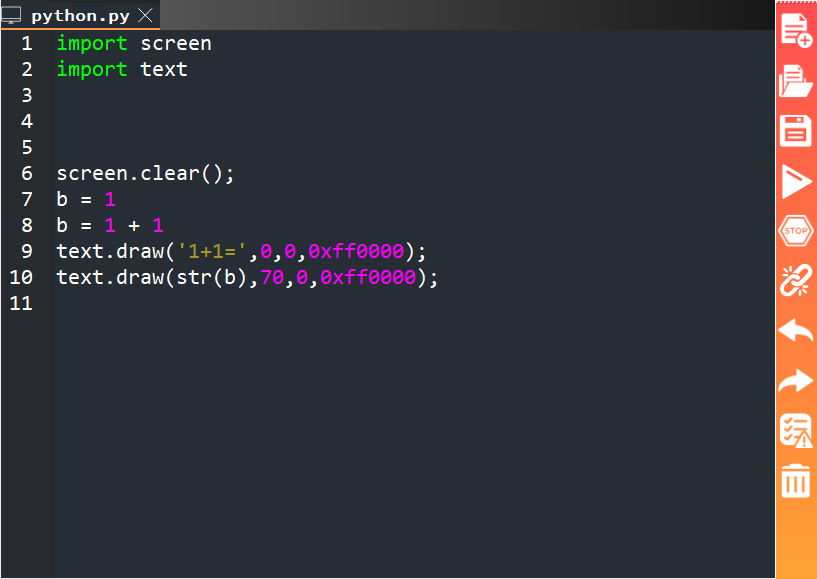
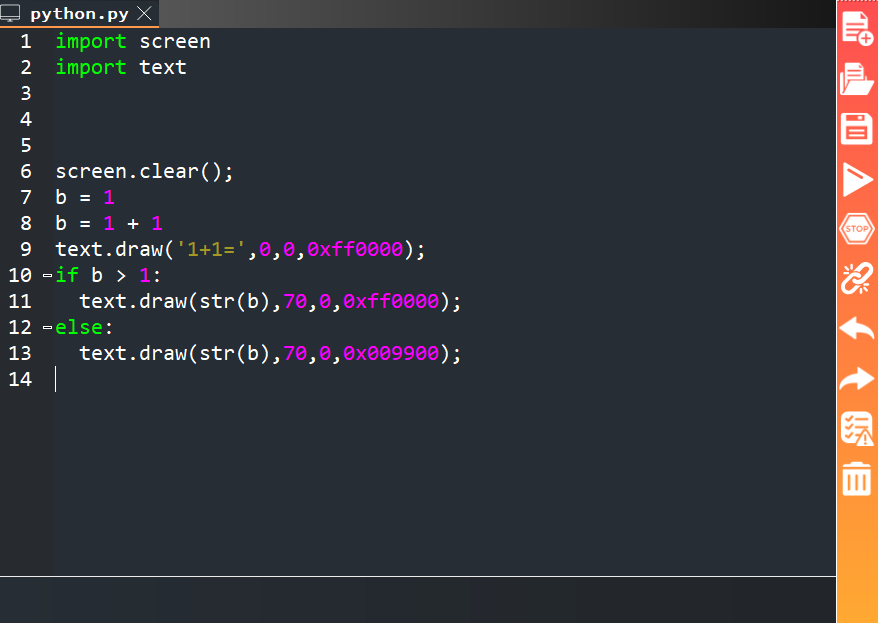
更新图片

Changed region(s): [[0.0, 0.0, 0.5508, 0.6218], [0.0, 0.0, 1.0, 1.0]]

diff --git a/docs/blockly/practice/neuibitskidcal.rst b/docs/blockly/practice/neuibitskidcal.rst
@@ -121,7 +121,7 @@ Skids 计算器实例讲解
 .. image:: img/cal8.png
     :width: 520px
   
-.. image:: img/cal01.png
+.. image:: img/cal13.png
     :width: 520px
 	
 	
